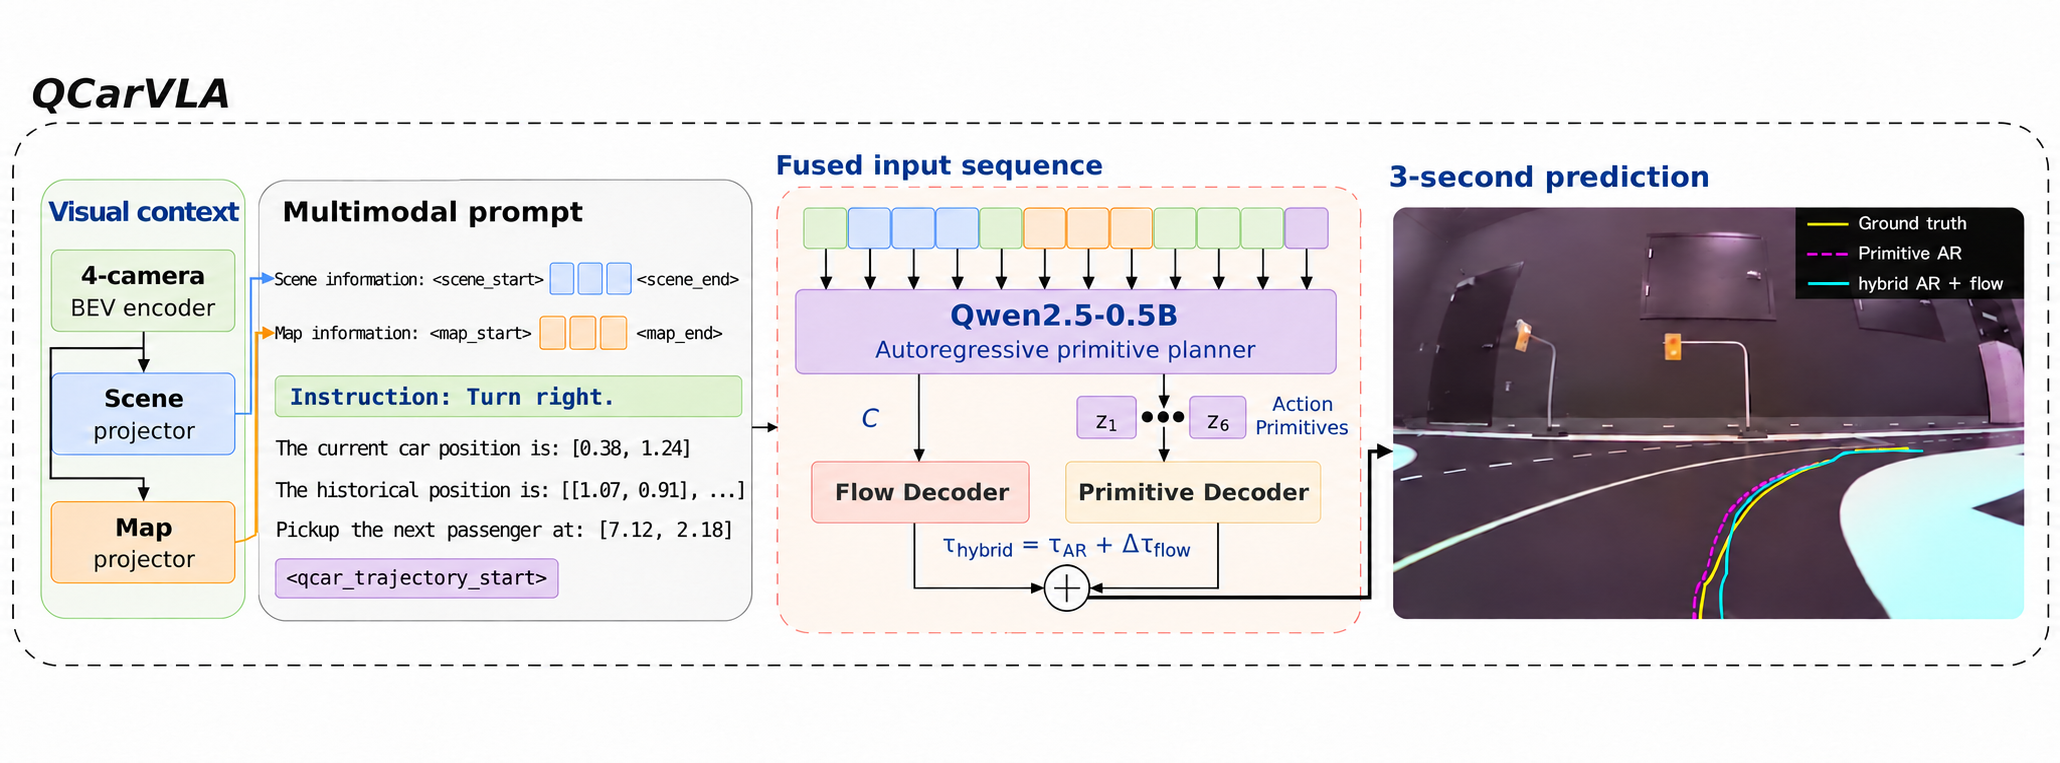
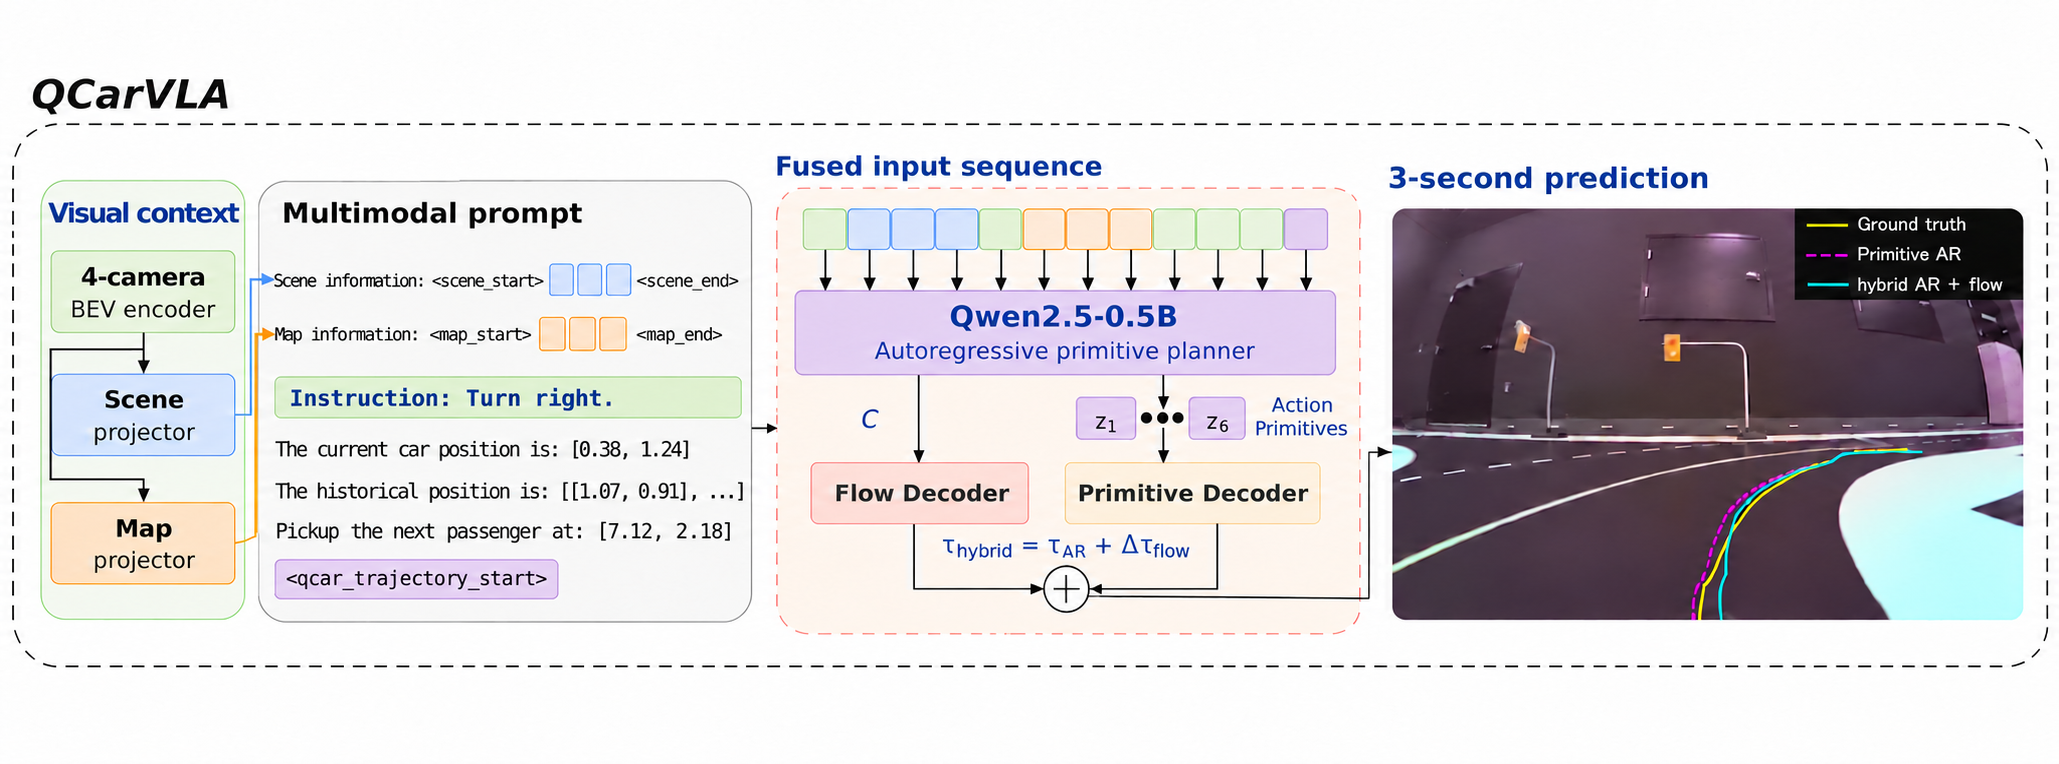
Add Table II and match final output arrow line weight

diff --git a/site/index.html b/site/index.html
@@ -65,8 +65,8 @@
     <div class="container is-max-desktop">
       <div class="hero-body">
         <figure>
-          <a href="assets/qcarvla-overview-horizontal.png?v=20261123-parallel-thin" target="_blank" rel="noopener" aria-label="View full-resolution QCarVLA overview">
-            <img src="assets/qcarvla-overview-horizontal.png?v=20261123-parallel-thin" alt="QCarVLA overview: the four-camera encoder feeds scene and map projectors in parallel. Their context and driving instructions feed a motion-primitive planner, followed by continuous residual refinement." fetchpriority="high">
+          <a href="assets/qcarvla-overview-horizontal.png?v=20261123-output-thin" target="_blank" rel="noopener" aria-label="View full-resolution QCarVLA overview">
+            <img src="assets/qcarvla-overview-horizontal.png?v=20261123-output-thin" alt="QCarVLA overview: the four-camera encoder feeds scene and map projectors in parallel. Their context and driving instructions feed a motion-primitive planner, followed by continuous residual refinement." fetchpriority="high">
           </a>
           <figcaption class="subtitle has-text-centered">QCarVLA combines compact motion-primitive prediction with continuous residual refinement for language-guided driving.</figcaption>
         </figure>
@@ -111,6 +111,24 @@
           </ul>
         </div>
       </div>
+      <h3 class="title is-4" id="open-loop-evaluation">Open-loop trajectory prediction</h3>
+      <p class="table-intro">Three-second predictions on held-out routes, evaluated against recorded expert trajectories. Average displacement error (ADE) and final displacement error (FDE) are reported in meters. Miss rate (MR) is the fraction of predictions with FDE greater than 0.20 m. Lower is better; best values are <strong>bold</strong>.</p>
+      <div class="table-container" tabindex="0" role="region" aria-label="Table II: open-loop evaluations on held-out routes; scroll horizontally if needed">
+        <table class="table is-fullwidth paper-table open-loop-table">
+          <caption>Table II. Open-loop evaluations on held-out routes.</caption>
+          <thead><tr><th scope="col">Domain</th><th scope="col">Method</th><th scope="col">ADE (m)</th><th scope="col">FDE (m)</th><th scope="col">MR</th></tr></thead>
+          <tbody>
+            <tr><th scope="rowgroup" rowspan="3" style="vertical-align: middle;">Simulation<sup>*</sup></th><th scope="row">OpenDriveVLA</th><td>0.0896</td><td>0.2121</td><td>0.3285</td></tr>
+            <tr><th scope="row">DriveVLA-W0</th><td>0.0989</td><td>0.2187</td><td>0.3447</td></tr>
+            <tr><th scope="row"><strong>QCarVLA (ours)</strong></th><td><strong>0.0784</strong></td><td><strong>0.1694</strong></td><td><strong>0.2314</strong></td></tr>
+            <tr><th scope="rowgroup" rowspan="3" style="vertical-align: middle;">Hardware</th><th scope="row">OpenDriveVLA</th><td>0.0935</td><td>0.2261</td><td>0.3197</td></tr>
+            <tr><th scope="row">DriveVLA-W0</th><td>0.1007</td><td>0.2174</td><td>0.3408</td></tr>
+            <tr><th scope="row"><strong>QCarVLA (ours)</strong></th><td><strong>0.0863</strong></td><td><strong>0.1871</strong></td><td><strong>0.2929</strong></td></tr>
+          </tbody>
+        </table>
+      </div>
+      <p class="evaluation-note" style="margin-bottom: 2rem;">* Simulation entries reproduce the historical results listed in the current manuscript draft.</p>
+
       <h3 class="title is-4">Recovery-assisted closed-loop evaluation</h3>
       <p class="table-intro">Mean per-rollout measurements across six held-out routes and three traffic seeds in the held-out traffic configuration. Lower is better for all metrics; best values are <strong>bold</strong> and second-best values are <u>underlined</u>.</p>
       <div class="table-container" tabindex="0" role="region" aria-label="Closed-loop benchmark comparison; scroll horizontally to view all metrics">

diff --git a/PAPER-SOURCES.md b/PAPER-SOURCES.md
@@ -10,7 +10,7 @@ Updated from the LaTeX materials supplied on November 23, 2026.
 | Benchmark map | `images/BenchmarkMapCombined.png`, referenced by `figures/traffic_map.tex` |
 | Benchmark protocol and intervention thresholds | `sections/03_benchmark_design.tex` |
 | Closed-loop comparison table | `tables/benchmark_results.tex` |
-| Open-loop simulation comparison in prose | `tables/open_loop_main.tex` and `sections/05_experiments.tex` |
+| Open-loop evaluation table (Table II) and simulation comparison in prose | `tables/open_loop_main.tex` and `sections/05_experiments.tex` |
 | Method image | `images/qcarvla_architectureV2.png`, referenced by `figures/architecture.tex` |
 | Method highlights | `sections/04_VLA_design.tex` |
 | AGX Orin profiling table | `tables/adaption_compute_comparison.tex` |
@@ -22,3 +22,5 @@ Closed-loop table values are per-rollout means, not totals across the schedule. 
 The benchmark and method images are copied from the paper. The wide introduction figure is an AI-assisted schematic adaptation of the introduction teaser for the web, produced with the built-in image editing tool. It is illustrative rather than a pixel-exact rearrangement of camera data. The original teaser is retained as `site/assets/qcarvla-overview-original.png` for source reference. The full-resolution architecture and map remain unchanged. Original LaTeX materials remain unchanged. Demo media remain placeholders until real footage is uploaded and enabled.
 
 The visual-context wiring in the wide overview was corrected to use parallel encoder outputs: four-camera encoder → Scene projector and four-camera encoder → Map projector, with no Scene → Map dependency. The bypass connector was thinned to match the existing arrows. The page author fields are temporarily anonymous, and the lab link and original-figure note have been removed from the visible page.
+
+Table II is reproduced from the active `tables/open_loop_main.tex` with the original MR fractions and bold formatting. Its simulation entries are labeled historical because that source currently contains a TODO to update them following full-dataset training.

diff --git a/docs/overview-edit.md b/docs/overview-edit.md
@@ -1,5 +1,13 @@
 # Horizontal overview asset
 
+## Final output connector correction
+
+The output connector from the hybrid-plan sum to the three-second prediction was thinned, including its arrowhead, to match the decoder arrows. This correction used the built-in image editor with the existing overview as the edit target.
+
+### Output connector edit prompt
+
+Make one small precision edit to this existing QCarVLA diagram. The final black output connector from the circled plus sign to the right-hand 3-second prediction photograph is visibly too thick. It runs horizontally along the bottom of the middle panel, turns upward beside the photograph, and ends in a right-pointing arrowhead at the photograph's left edge. THIN THIS ENTIRE L-SHAPED OUTPUT CONNECTOR and shrink its arrowhead to match exactly the thin stroke weight and small arrowhead used by the nearby Flow Decoder-to-plus and Primitive Decoder-to-plus input arrows (approximately 1.5 pixels at this 2060×763 resolution). No bold/doubled stroke or oversized arrowhead. All segments of this final connector must have the same thin width. Keep its current route, source at the summed hybrid plan, and destination at the photograph. Preserve every other pixel/content as closely as possible: same canvas, labels, all other connector routes, the correct parallel encoder-to-Scene and encoder-to-Map branches, colors, text, token boxes, dashed boundaries, and photograph with its trajectory overlays. Do NOT redraw the full figure, change the camera view, add any arrows, or move any element. Change only the line weight and arrowhead size of the final output connector.
+
 - Saved figure: `site/assets/qcarvla-overview-horizontal.png`
 - Unmodified original: `site/assets/qcarvla-overview-original.png`
 - Tool: built-in `image_gen.imagegen`, edit mode; no CLI fallback.
